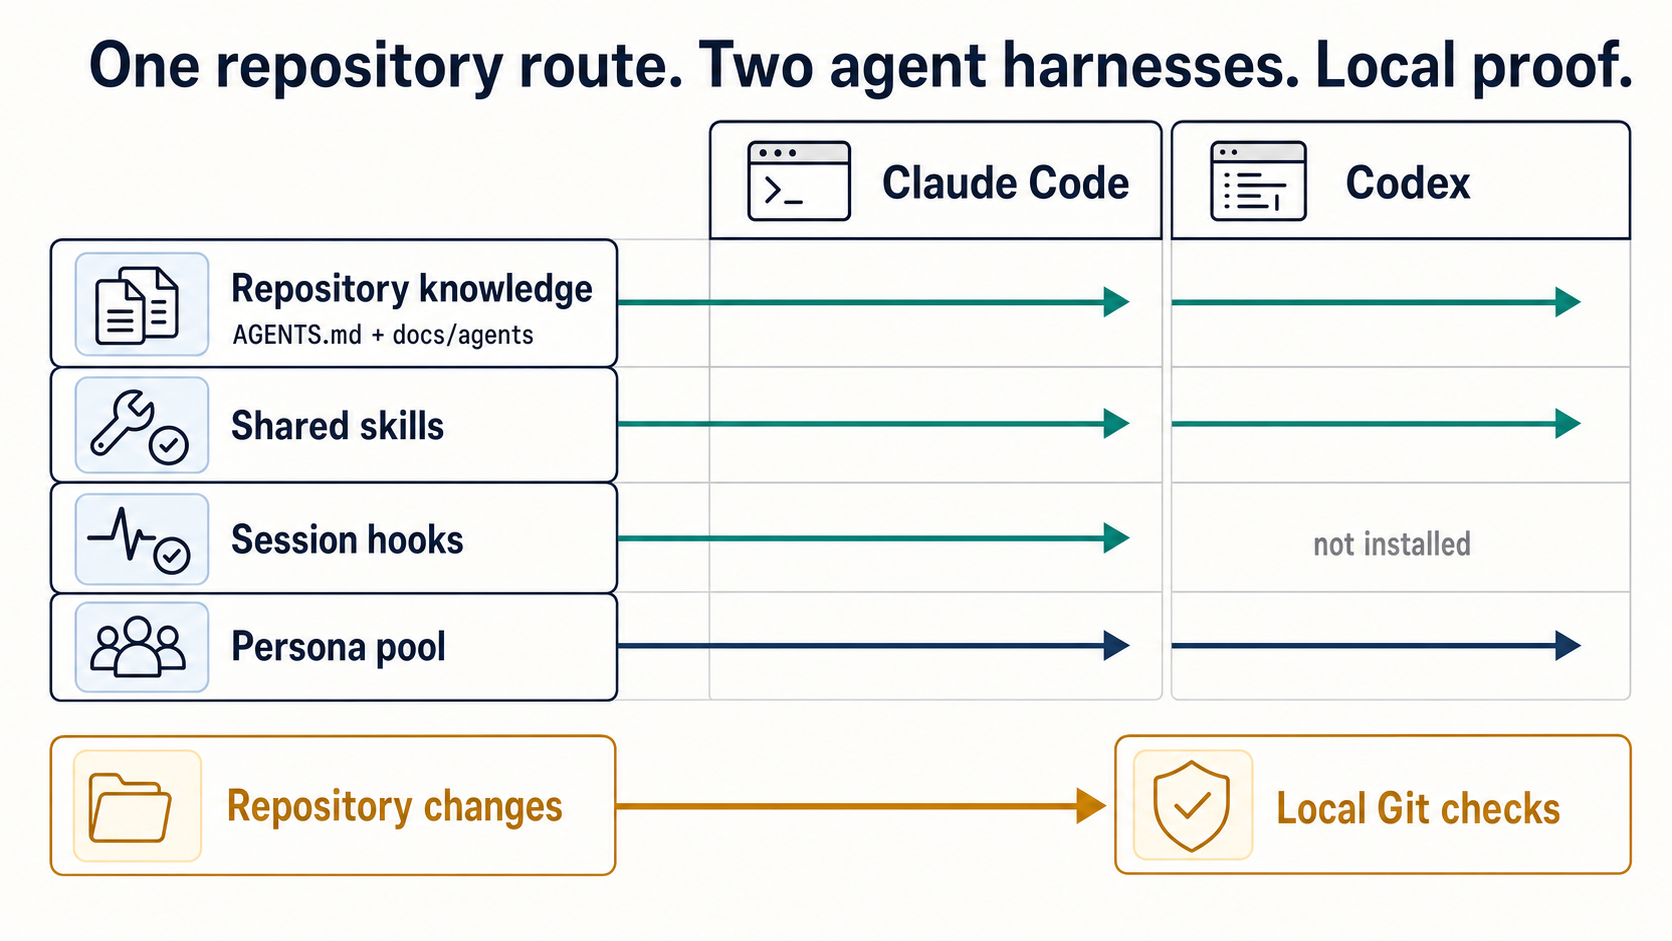
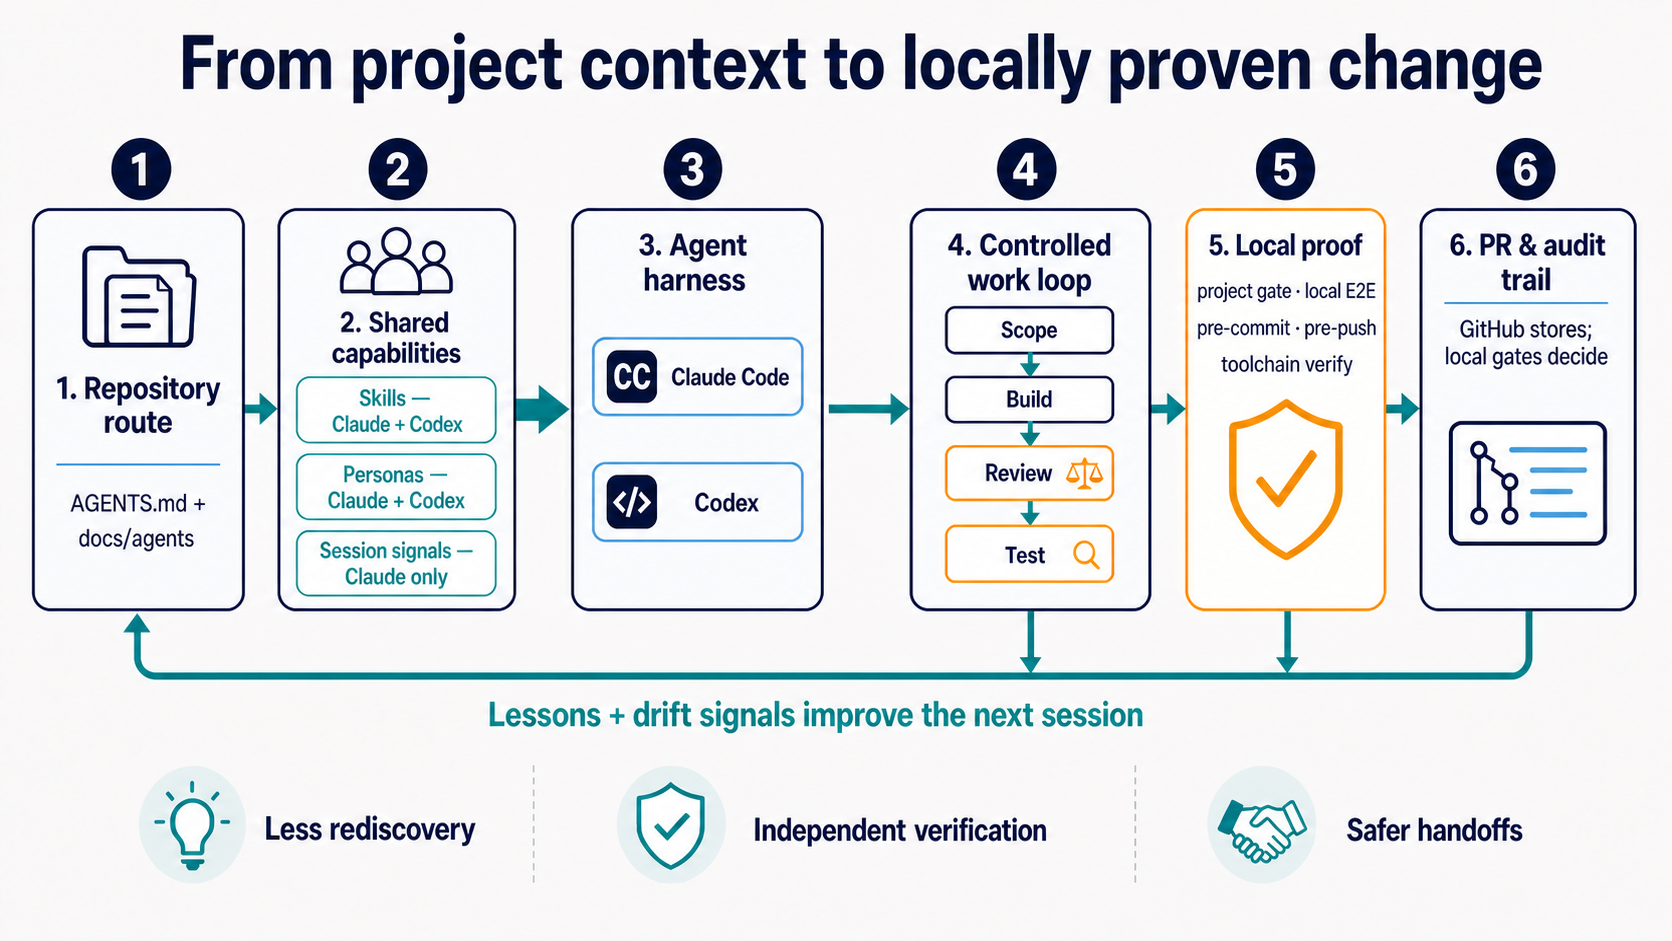
docs: explain the agent workflow visually

Changed region(s): [[0.0, 0.0308, 0.9952, 0.9554]]

diff --git a/README.md b/README.md
@@ -1,13 +1,25 @@
 # SWE Agent
 
-**A cross-project layer for working with coding agents: how a repository routes them, how work is
-delegated to named roles, and what keeps any of it from rotting.**
+**A local-first operating layer for reliable Claude Code and Codex work. It keeps repository
+instructions, roles, and verification evidence from drifting—without becoming a runtime, framework,
+or hosted service.**
 
-Built and used by one person across a dozen projects on one laptop, with Claude Code and Codex in
-parallel. Everything here is in daily use rather than proposed. Where a decision came from a
-measurement, the number is included; where it came from a mistake, the mistake is written down.
+It is a set of conventions and installable tooling for routing agents, assigning accountable roles,
+and proving work locally. Current tooling is authoritative; measured decisions and mistakes stay in
+the documentation so the setup can be inspected rather than trusted on faith.
 
-[Quickstart](#quickstart) · [Architecture](#architecture) · [Documentation](#documentation) · [Weekly improvements](#weekly-improvements)
+[Quickstart](#quickstart) · [Core capabilities](#core-capabilities) · [Architecture](#architecture) · [Documentation](#documentation) · [Weekly improvements](#weekly-improvements)
+
+If this setup helps, use GitHub's **Star** button to help other builders discover it.
+
+## Quickstart
+
+```bash
+cd install && ./install.sh && ./verify.sh
+```
+
+Then open a project in Claude Code or Codex and run the **`project-onboarding`** skill. Requirements
+and installer behaviour: [install/README.md](install/README.md).
 
 ## The problem
 
@@ -22,42 +34,39 @@ Three things follow from that:
 2. **Roles have to be defined once**, or every session re-derives them differently.
 3. **Whatever is not checked will drift**, so the checks matter more than the content.
 
-## Quickstart
+## Core capabilities
 
-```bash
-cd install && ./install.sh && ./verify.sh
-```
+| Capability | What it gives you | Start here |
+|---|---|---|
+| Route, repository taxonomy, and migration | A short, validated task route plus a common repository layout; the migrator plans or applies a link-preserving move into that layout. | [Progressive disclosure](docs/progressive-disclosure.md) · [Repository standard](docs/repository-standard.md) |
+| Onboarding and shared skills | A repeatable way to add the route, per-clone hooks, and published workflows to a project; the installer mirrors shared skills to both harnesses. | [Install](install/README.md) · [Onboarding](docs/onboarding-a-project.md) · [`project-onboarding`](install/skills/project-onboarding/SKILL.md) |
+| Personas and specialists | Thirteen base personas with deliberate role, model, effort, and write boundaries; project specialists are derived from the repository's guardrails, architecture, and product requirements. | [Agent personas](docs/agent-personas.md) |
+| Controlled execution and independent judges | A scope → build → review → test loop with task cards and a builder who never approves their own work. | [Operating model](docs/operating-model.md) |
+| Environment, drift, and learning signals | Preflight catches machine gaps; checks distinguish machine-global Claude/Codex mirror drift from installed-versus-published vendored-layer drift; repository lessons preserve corrections. | [`preflight.sh`](install/hooks/preflight.sh) · [`check_toolchain.py`](install/skills/progressive-disclosure/scripts/check_toolchain.py) · [`verify.sh`](install/verify.sh) |
+| Local project proof and Git safety | Focused tests, project gates, and local E2E establish project readiness; identifier and push guards protect commit and push. | [Operating model](docs/operating-model.md) · [`identifier_guard.py`](install/skills/progressive-disclosure/scripts/identifier_guard.py) · [`push_guard.py`](install/skills/progressive-disclosure/scripts/push_guard.py) |
 
-Then open a project and run the **`project-onboarding`** skill. Requirements and what gets written:
-[install/README.md](install/README.md).
-
-## What you get
-
-| | |
-|---|---|
-| **A four-layer route** | Contract → index → per-directory → README, each with a word budget, all validated |
-| **A repository taxonomy** | One layout across every project, with a migrator for existing repos |
-| **Thirteen personas** | `scout`, `developer`, `senior-developer`, `reviewer`, `architect`, `acceptance` and others — model and effort already decided, generated into both harnesses |
-| **A push guard** | Blocks credentials, oversized files, and direct pushes to main — the two rules a forge charges for, enforced locally. Fails closed: a scan that could not run exits 2 and never reads as clean |
-| **An identifier guard** | For a repository that is deliberately public: blocks home paths, account identifiers, and a machine-local list of private names from the staged diff and the commit message. The list lives outside the repository it protects |
-| **An environment preflight** | Asserts the facts that break scripts and gates rather than code — a tool that resolves in your shell but not in a script, a keg-only JDK, an inherited SIGHUP-ignore |
-| **A vendored-drift check** | Compares the installed layer against this repository's published copy, so the two cannot silently disagree |
-| **Drift detection** | Session start reports a broken route, an unsynced persona, an unmirrored rule, a stale graph |
+Optional code-graph navigation is available when `graphify` is installed; it is not required for the
+route, installer, or local checks.
 
 ## Architecture
 
 ![SWE Agent architecture and data flow](docs/assets/swe-agent-architecture.png)
 
-| Flow | Meaning |
-|---|---|
-| Repository knowledge → Claude Code and Codex | `AGENTS.md` and `docs/agents/` give both harnesses the same durable route. |
-| Shared skills → Claude Code and Codex | Shared skills accelerate work in both harnesses. |
-| Session hooks → Claude Code only | Claude-specific session hooks report drift and environment facts. |
-| Persona pool → Claude Code and Codex | The shared persona sources generate harness-specific agents for both harnesses. |
-| Repository changes → local Git checks | Local hooks validate repository work before commit or push. |
-
 Repository knowledge is the durable source of truth. Shared skills accelerate both harnesses;
-session hooks are Claude-specific. Neither replaces repository knowledge.
+session signals are Claude-specific. Neither replaces repository knowledge.
+
+| Stage | Core capability and what happens | Repository and tooling entry points | Value created |
+|---|---|---|---|
+| 1. Repository route | A repository declares its contract and task routes in `AGENTS.md` and `docs/agents/`; the repository standard supplies the common taxonomy and a migrator. | `AGENTS.md`, `docs/agents/`, [`validate_disclosure.py`](install/skills/progressive-disclosure/scripts/validate_disclosure.py), [repository standard](docs/repository-standard.md) | Durable, shared context reduces rediscovery and makes stale links visible. |
+| 2. Shared capabilities | The published vendored layer provides reusable skills; the persona pool defines role, model, effort, and write boundaries. Session signals remain Claude-only. | [Published skill declaration](docs/README.md), [persona sources and generator](docs/agent-personas.md), [`verify.sh`](install/verify.sh) | Repeatable work patterns and consistent role routing; the verifier can compare this repository's published layer with installed state. |
+| 3. Harness layer | Claude Code and Codex consume the same repository knowledge; skills are mirrored and personas are rendered for each harness. A persona stays in the harness being driven. | [Installation inventory](docs/what-gets-installed.md), [`install_hooks.py`](install/skills/progressive-disclosure/scripts/install_hooks.py), [no cross-harness dispatch](docs/agent-personas.md#no-cross-harness-dispatch) | One repository route works across both harnesses without cross-harness dispatch. |
+| 4. Controlled work loop | Work moves through scope → build → review → test using the execution methodology and task cards. Judges are independent; a builder does not approve their own work. | [Operating model](docs/operating-model.md), [full adoption walkthrough](docs/full-adoption.md) | Independent verification and clearer, safer handoffs. |
+| 5. Local proof | Focused and adjacent tests lead to a project's area gate, then full local E2E with real services. Environment preflight and Git hooks protect commit and push; this repository's `verify.sh` proves only its published tooling and installation. | [Operating model](docs/operating-model.md), [`preflight.sh`](install/hooks/preflight.sh), [`identifier_guard.py`](install/skills/progressive-disclosure/scripts/identifier_guard.py), [`push_guard.py`](install/skills/progressive-disclosure/scripts/push_guard.py), [`verify.sh`](install/verify.sh) | Local gates decide readiness; failures and unknowns are reported honestly without mistaking toolchain verification for a project's production-path proof. |
+| 6. PR and audit trail | GitHub stores code and configuration; milestone PRs and merge commits preserve the audit trail after local proof. It does not run hosted CI or deploy work. | [GitHub policy](docs/github.md) | Durable backup and history without mistaking a push for validation. |
+
+Lessons and session signals feed corrections back into repository context. They are distinct from
+machine-global Claude/Codex mirror drift and from `verify.sh`'s installed-versus-published vendored
+layer comparison; all three make a stale assumption visible to the next task.
 
 ## Documentation
 
@@ -111,14 +120,18 @@ git hooks standing in for branch protection. Those are marked where they appear.
 **Not a substitute for reading it.** Installing an agent configuration you have not read is how you
 end up with rules you do not understand and cannot debug.
 
-## Two sections a software project would have, and this does not
+## README contract: apply it with judgement
 
-The README contract this repository describes requires a *Current state* section linked to a plan,
-and a *Product requirements* section linking PRDs. Neither applies to a documentation repository
-with no roadmap and no product, so neither is here.
+The README contract this repository describes requires a *Current state* section linked to a plan
+and a *Product requirements* section linking PRDs. Neither applies to this documentation repository,
+which has no roadmap or product, so neither is here. The full contract and its validator live in
+[progressive-disclosure.md](docs/progressive-disclosure.md).
 
 That is the point rather than an exception: a contract applied without judgement produces sections
 written to satisfy a validator. Adopt the parts that answer a real question for your readers.
+
+If this local-first setup helps your agent work hold together, use GitHub's **Star** button to help
+other builders discover it.
 
 ## Licence
 

diff --git a/install/README.md b/install/README.md
@@ -29,9 +29,10 @@ Optional, and genuinely optional — nothing breaks without them:
 
 ```
 ~/.claude/skills/       progressive-disclosure, agent-personas, agent-persona-factory,
-                        project-onboarding, graph-navigation
-~/.claude/hooks/        disclosure-check.sh + two graphify hooks
-~/.claude/settings.json 3 hook entries, MERGED into your existing file
+                        execution-methodology, project-onboarding, graph-navigation
+~/.claude/hooks/        disclosure-check.sh, preflight.sh, graphify-session-lessons.sh,
+                        graphify-query-advisor.py
+~/.claude/settings.json 4 hook entries (3 SessionStart, 1 PreToolUse), MERGED into your existing file
 ~/.claude/agents/       personas rendered from the pool
 ~/.codex/skills/        the same skills, mirrored
 ~/.codex/agents/        the same personas, as TOML
@@ -73,9 +74,9 @@ Re-run `./install.sh` to update after pulling a new version. It is idempotent.
 ## Uninstalling
 
 ```bash
-rm -rf ~/.claude/skills/{progressive-disclosure,agent-personas,agent-persona-factory,project-onboarding,graph-navigation}
-rm -f  ~/.claude/hooks/{disclosure-check.sh,graphify-query-advisor.py,graphify-session-lessons.sh}
-rm -rf ~/.codex/skills/{progressive-disclosure,agent-personas,agent-persona-factory,project-onboarding,graph-navigation}
+rm -rf ~/.claude/skills/{progressive-disclosure,agent-personas,agent-persona-factory,execution-methodology,project-onboarding,graph-navigation}
+rm -f  ~/.claude/hooks/{disclosure-check.sh,preflight.sh,graphify-query-advisor.py,graphify-session-lessons.sh}
+rm -rf ~/.codex/skills/{progressive-disclosure,agent-personas,agent-persona-factory,execution-methodology,project-onboarding,graph-navigation}
 # then remove the hook entries from ~/.claude/settings.json by hand
 ```
 

diff --git a/docs/codex.md b/docs/codex.md
@@ -71,7 +71,7 @@ for f in sorted((pathlib.Path.home()/".codex"/"agents").glob("*.toml")):
 PY
 ```
 
-Expect 11 generated personas. A hand-written `grok_worker.toml` may also be present — the sync
+Expect 13 generated personas. A hand-written `grok_worker.toml` may also be present — the sync
 leaves it alone because it lacks the generated banner.
 
 ### 3. Mirror the skills
@@ -81,12 +81,15 @@ python3 ~/.claude/skills/progressive-disclosure/scripts/install_hooks.py <any-re
 ls ~/.codex/skills/
 ```
 
-Expect `agent-personas`, `agent-persona-factory`, `graph-navigation`, `progressive-disclosure`.
+Expect the six **published** skills: `progressive-disclosure`, `agent-personas`,
+`agent-persona-factory`, `execution-methodology`, `graph-navigation`, and `project-onboarding`.
+`graphify` may also be present because its vendor installs it; this repository neither publishes nor
+manages it.
 
-**Known gap:** adding a skill to the sync list does not retroactively copy it. Re-run
-`install_hooks.py` after adding one. This was hit once — `agent-personas` was added to the list
-after the last install run, and `~/.codex/skills/` sat two skills short until it was noticed during
-an inventory.
+`install.sh` discovers the published skills from `install/skills/.gitignore` and mirrors that
+declaration to Codex. `install_hooks.py` instead mirrors the fixed `MIRRORED_SKILLS` tuple in
+`check_toolchain.py`; when adding a managed skill, update that roster before `install_hooks.py` can
+mirror it. Re-run the appropriate command after a change. Skills are mirrored, not rendered.
 
 ### 4. Mirror the global instructions
 

diff --git a/docs/agent-personas.md b/docs/agent-personas.md
@@ -16,11 +16,15 @@ Implementation: `~/.claude/skills/agent-personas/`. Specialists:
 | `developer` bounded work in one module | yes | ~14 | `sonnet` | `gpt-5.6-terra` | medium |
 | `senior-developer` judgement, cross-cutting, security | yes | ~6 | `opus` | `gpt-5.6-sol` | medium |
 | `planner` what to build, in what order | no | ~3 | `fable` | `gpt-5.6-sol` | high |
+| `product-steward` the WHY, scope, acceptance criteria | product specs only | not measured | `opus` | `gpt-5.6-sol` | high |
+| `chief-of-staff` holds the loop, dispatches, keeps the ledger | ledger, task cards, and reports only | not measured | `opus` | `gpt-5.6-sol` | high |
 | `architect` is this the right shape | design docs only | ~4 | `opus` | `gpt-5.6-sol` | high |
 | `contract-architect` API, schema, migrations | yes | ~3 | `opus` | `gpt-5.6-sol` | high |
 | `reviewer` independent, cannot edit | no | ~20 | `opus` | `gpt-5.6-sol` | high |
 | `security-validator` consent, authz, PHI | no | ~5 | `opus` | `gpt-5.6-sol` | high |
 | `acceptance` milestone judge, cannot edit | no | 1 | `opus` | `gpt-5.6-sol` | xhigh |
+
+No reproducible run count is recorded for `product-steward` or `chief-of-staff`.
 
 ## Three principles
 

diff --git a/docs/what-gets-installed.md b/docs/what-gets-installed.md
@@ -22,7 +22,8 @@ Ran 26 tests ... FAILED (failures=2, errors=11)
 
 Positive control, the same suite installed: `Ran 68 tests ... OK`. The suite is correct; the
 vendored position is not a complete tree for it, and collection itself fails — 26 reached, not 68.
-`verify.sh` does not run the vendored copy, so a restored one sits published and red, unnoticed.
+`verify.sh` runs vendored suites. Restoring this directory would surface the `agent-personas`
+suite's collection failure.
 
 `check_toolchain.py --vendored <repo>` therefore reports **5 criticals at `a008768`, all expected**:
 three are those test files, two are `install/skills/.gitignore` and `install/skills/README.md`,
